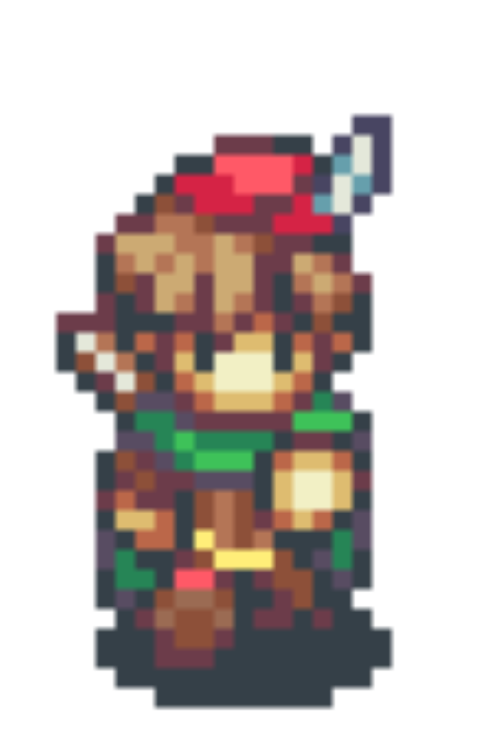
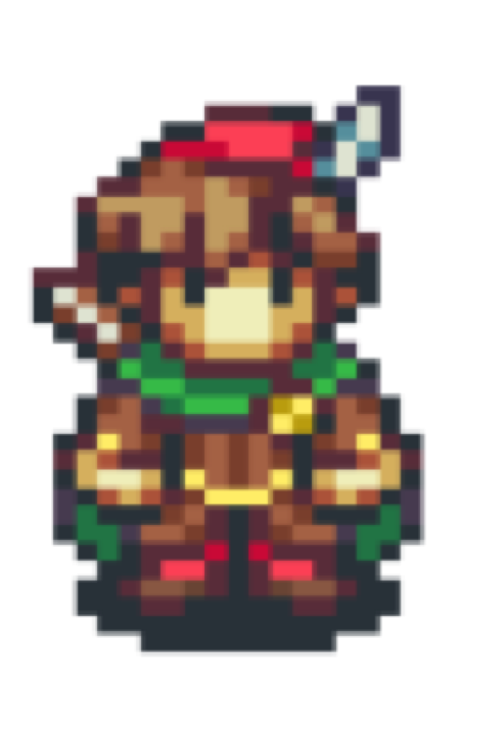
doesnt work

diff --git a/CapstoneProject/src/screens/SecondScreen.java b/CapstoneProject/src/screens/SecondScreen.java
@@ -24,6 +24,12 @@ public class SecondScreen extends Screen {
 	
 	private Rectangle screenRect;
 	private PImage background;
+	private PImage[] animations;
+	private int animationIndex;
+	private boolean going, looping;
+	
+	private final int animationTime = 6;  // This represents 1/4 of a second with normal framerate
+	private int animationCounter;
 
 	private Player player;
 	private List<Sprite> obstacles;
@@ -44,6 +50,10 @@ public class SecondScreen extends Screen {
 		obstacles.add(new Sprite(107,480,120,75));
 		obstacles.add(new Sprite(54,540,120,60));
 		obstacles.add(new Sprite(630,480,180,50));
+		
+		animationIndex = 0;
+		going = false;
+		looping = false;
 
 	}
 
@@ -51,7 +61,7 @@ public class SecondScreen extends Screen {
 	 * Creates the player to be drawn onto the screen.
 	 */
 	public void spawnNewPlayer() {
-		player = new Player(surface.loadImage("img/character.png"), DRAWING_WIDTH/2-Player.PLAYER_WIDTH/2,50);
+		player = new Player(surface.loadImage("img/Character.png"), DRAWING_WIDTH/2-Player.PLAYER_WIDTH/2,50);
 	}
 	/**
 	 * Loads the background of the current area.
@@ -63,6 +73,12 @@ public class SecondScreen extends Screen {
 	// The statements in the setup() function 
 	// execute once when the program begins
 	public void setup() {
+		animations[0] = surface.loadImage("img/Walk1.png");
+		animations[1] = surface.loadImage("img/Walk2.png");
+		animations[2] = surface.loadImage("img/Walk3.png");
+		animations[3] = surface.loadImage("img/Walk4.png");
+		animations[4] = surface.loadImage("img/Walk5.png");
+		animations[5] = surface.loadImage("img/Walk6.png");
 		background = surface.loadImage("img/background.png");
 		spawnNewPlayer();
 	}
@@ -95,8 +111,20 @@ public class SecondScreen extends Screen {
 		}
 		if (surface.isPressed(KeyEvent.VK_LEFT))
 			player.walk(Player.Direction.Left);
-		if (surface.isPressed(KeyEvent.VK_RIGHT))
+		if (surface.isPressed(KeyEvent.VK_RIGHT)) {
 			player.walk(Player.Direction.Right);
+			if (going) {
+				animationCounter--;
+				if (animationCounter <= 0) {
+					animationCounter = animationTime;
+					animationIndex = (animationIndex + 1) % animations.length;
+					if (animationIndex == 0 && !looping) {
+						going = false;
+					}
+				}
+			}
+			player.animateWalk(animations, animationIndex);
+		}
 		if (surface.isPressed(KeyEvent.VK_UP))
 			player.walk(Player.Direction.Up);
 		if (surface.isPressed(KeyEvent.VK_DOWN))

diff --git a/CapstoneProject/src/sprites/Player.java b/CapstoneProject/src/sprites/Player.java
@@ -3,6 +3,7 @@ package sprites;
 
 import java.awt.geom.Line2D;
 import java.awt.geom.Line2D.Double;
+import java.util.ArrayList;
 import java.util.List;
 
 import processing.core.PImage;
@@ -18,12 +19,12 @@ public class Player extends Sprite {
 	/**
 	 * The width of the Player.
 	 */
-	public static final int PLAYER_WIDTH = (int)(40* 500d/679);
+	public static final int PLAYER_WIDTH = (int)(60 * 500d/679);
 	
 	/**
 	 * The height of the Player.
 	 */
-	public static final int PLAYER_HEIGHT = (int)(60 * 737d/892);
+	public static final int PLAYER_HEIGHT = (int)(90 * 737d/892);
 	
 	private boolean canDown, canUp, canRight, canLeft;
 	
@@ -45,6 +46,14 @@ public class Player extends Sprite {
 	}
 
 	// METHODS
+	
+	public int animateWalk(PImage[] images, int index) {
+		if(!(index < images.length)) {
+			index = 0;
+		}
+		setImage(images[index+1]);
+		return index+1;
+	}
 	
 	/**
 	 * This method takes in a Direction and walks in that direction.

diff --git a/CapstoneProject/src/sprites/Sprite.java b/CapstoneProject/src/sprites/Sprite.java
@@ -45,6 +45,10 @@ public class Sprite extends Rectangle2D.Double {
 	
 	// METHODS	
 	
+	public void setImage(PImage img) {
+		image = img;
+	}
+	
 	/**
 	 * Moves the Sprite to a specified location on the PApplet. 
 	 * @param x The x-coordinate of the desired location to move to. 
